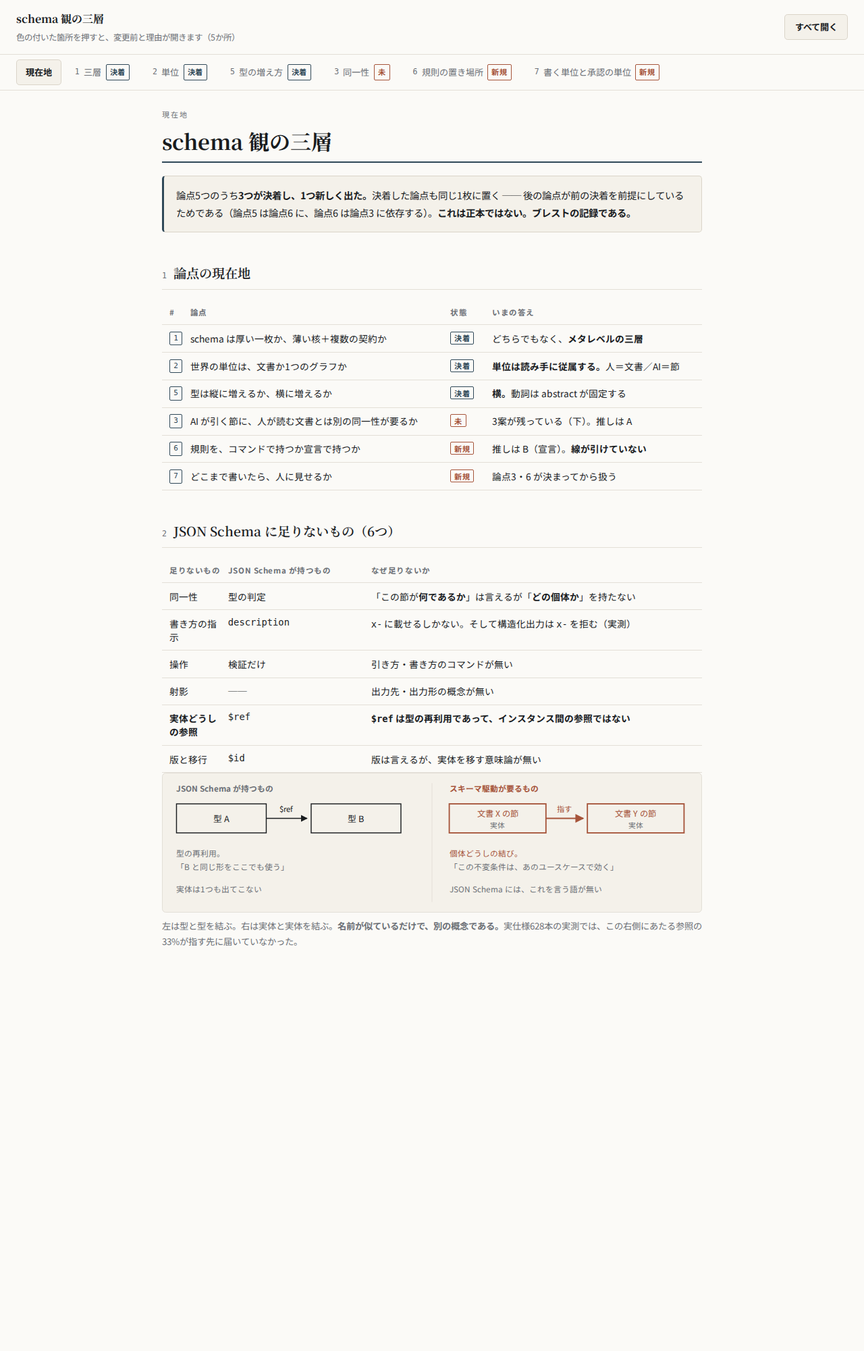
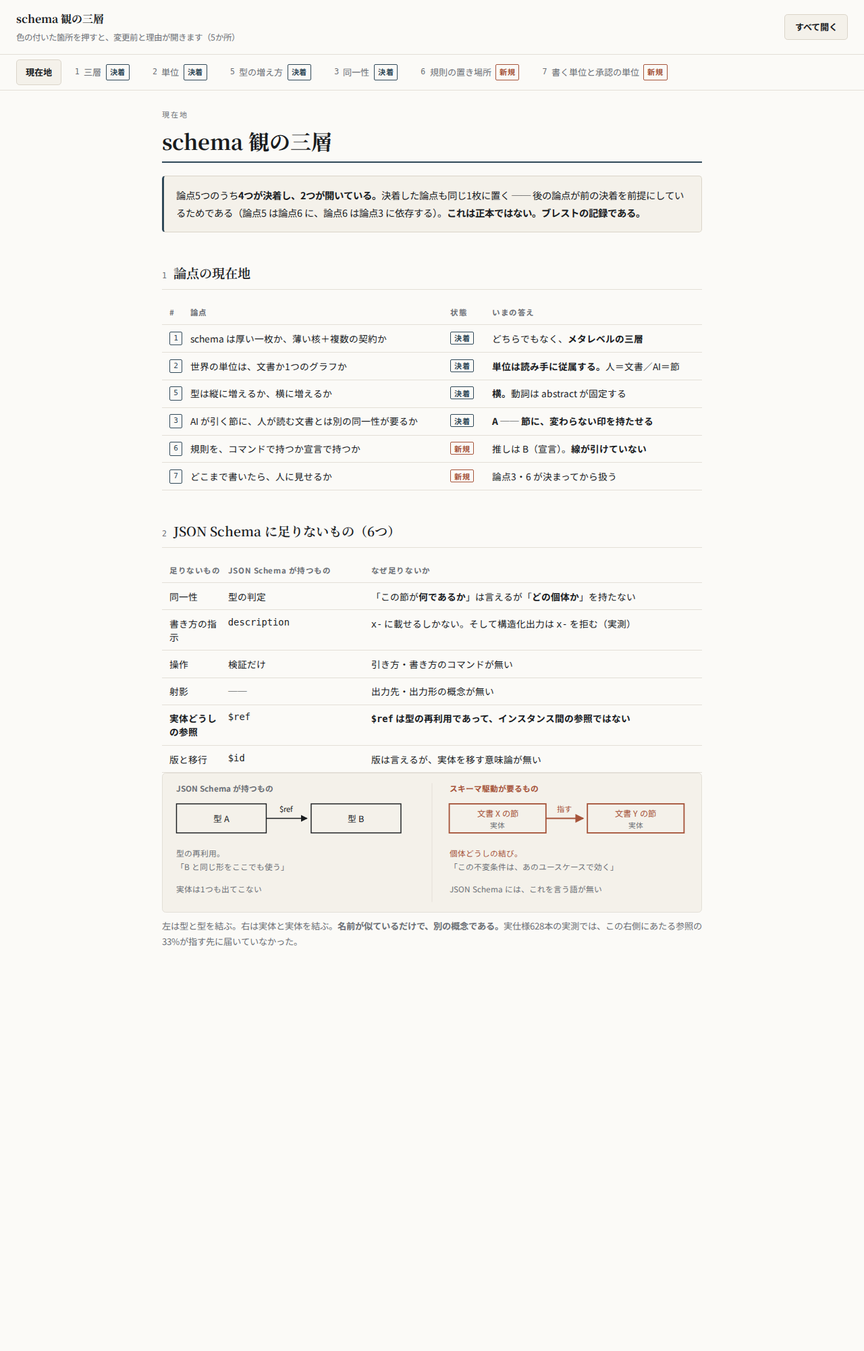
論点3を、節に不変の印を持たせる形で決める
決定：参照と突き合わせの鍵を、名前から印へ移す。
引き受けたのは3つ ── 人が読む射影では印を落とす／印を採番する道具を通さずには
節を書けなくする／印の重複と散逸は検査で見る。
案C（参照の側の解決状態）は排他ではなく、重ねて採れる。

Why: 参照が実体と実体を結ぶ以上、指される側は実体でなければならない。位置を
鍵にすると、参照の妥当性がいま最も動いているもの（構造そのもの）に依存する。
段2 に荷を置かない案は、これだけだった。

論点6 の前提も動いた ── 宣言が指せる先が、節の印になった。再開点は論点6。

Claude-Session: https://claude.ai/code/session_01VoPqHBXHr7Npdh9tNXyFNU

diff --git a/docs/adr/brainstorm-schema-conception-board.html b/docs/adr/brainstorm-schema-conception-board.html
@@ -98,7 +98,7 @@ mark.chg.del b{text-decoration:line-through}
 .st.done{color:var(--key);border-color:var(--key)}
 .st.open{color:var(--add);border-color:var(--add)}
 section[role="tabpanel"][hidden]{display:none}
-</style><div class="hd"><div class="t">schema 観の三層<small>色の付いた箇所を押すと、変更前と理由が開きます（<span id="n">0</span>か所）</small></div><button id="all" type="button">すべて開く</button></div><div class="tabs" role="tablist"><button role="tab" aria-selected="true" data-t="p0">現在地</button><button role="tab" aria-selected="false" data-t="p1"><span class="tn">1</span>三層<span class="st done">決着</span></button><button role="tab" aria-selected="false" data-t="p2"><span class="tn">2</span>単位<span class="st done">決着</span></button><button role="tab" aria-selected="false" data-t="p3"><span class="tn">5</span>型の増え方<span class="st done">決着</span></button><button role="tab" aria-selected="false" data-t="p4"><span class="tn">3</span>同一性<span class="st open">未</span></button><button role="tab" aria-selected="false" data-t="p5"><span class="tn">6</span>規則の置き場所<span class="st open">新規</span></button><button role="tab" aria-selected="false" data-t="p6"><span class="tn">7</span>書く単位と承認の単位<span class="st open">新規</span></button></div><main><section id="p0" role="tabpanel"><p class="eyebrow">現在地</p><h1>schema 観の三層</h1><div class="note">論点5つのうち<b>3つが決着し、1つ新しく出た。</b>決着した論点も同じ1枚に置く ── 後の論点が前の決着を前提にしているためである（論点5 は論点6 に、論点6 は論点3 に依存する）。<b>これは正本ではない。ブレストの記録である。</b></div><h2><span class="sn">1</span>論点の現在地</h2><div class="scroll"><table class=""><tr><th>#</th><th>論点</th><th>状態</th><th>いまの答え</th></tr><tr><td><span class="n">1</span></td><td>schema は厚い一枚か、薄い核＋複数の契約か</td><td><span class="st done">決着</span></td><td>どちらでもなく、<b>メタレベルの三層</b></td></tr><tr><td><span class="n">2</span></td><td>世界の単位は、文書か1つのグラフか</td><td><span class="st done">決着</span></td><td><b>単位は読み手に従属する。</b>人＝文書／AI＝節</td></tr><tr><td><span class="n">5</span></td><td>型は縦に増えるか、横に増えるか</td><td><span class="st done">決着</span></td><td><b>横。</b>動詞は abstract が固定する</td></tr><tr><td><span class="n">3</span></td><td>AI が引く節に、人が読む文書とは別の同一性が要るか</td><td><span class="st open">未</span></td><td>3案が残っている（下）。推しは A</td></tr><tr><td><span class="n">6</span></td><td>規則を、コマンドで持つか宣言で持つか</td><td><span class="st open">新規</span></td><td>推しは B（宣言）。<b>線が引けていない</b></td></tr><tr><td><span class="n">7</span></td><td>どこまで書いたら、人に見せるか</td><td><span class="st open">新規</span></td><td>論点3・6 が決まってから扱う</td></tr></table></div><h2><span class="sn">2</span>JSON Schema に足りないもの（6つ）</h2><div class="scroll"><table class=""><tr><th>足りないもの</th><th>JSON Schema が持つもの</th><th>なぜ足りないか</th></tr><tr><td>同一性</td><td>型の判定</td><td>「この節が<b>何であるか</b>」は言えるが「<b>どの個体か</b>」を持たない</td></tr><tr><td>書き方の指示</td><td><code>description</code></td><td><code>x-</code> に載せるしかない。そして構造化出力は <code>x-</code> を拒む（実測）</td></tr><tr><td>操作</td><td>検証だけ</td><td>引き方・書き方のコマンドが無い</td></tr><tr><td>射影</td><td>──</td><td>出力先・出力形の概念が無い</td></tr><tr><td><b>実体どうしの参照</b></td><td><code>$ref</code></td><td><b><code>$ref</code> は型の再利用であって、インスタンス間の参照ではない</b></td></tr><tr><td>版と移行</td><td><code>$id</code></td><td>版は言えるが、実体を移す意味論が無い</td></tr></table></div><figure><svg viewBox="0 0 780 200" role="img" aria-label="JSON Schema の $ref は型どうしを結ぶもので、文書エンティティどうしを結ぶ参照は別物である">
+</style><div class="hd"><div class="t">schema 観の三層<small>色の付いた箇所を押すと、変更前と理由が開きます（<span id="n">0</span>か所）</small></div><button id="all" type="button">すべて開く</button></div><div class="tabs" role="tablist"><button role="tab" aria-selected="true" data-t="p0">現在地</button><button role="tab" aria-selected="false" data-t="p1"><span class="tn">1</span>三層<span class="st done">決着</span></button><button role="tab" aria-selected="false" data-t="p2"><span class="tn">2</span>単位<span class="st done">決着</span></button><button role="tab" aria-selected="false" data-t="p3"><span class="tn">5</span>型の増え方<span class="st done">決着</span></button><button role="tab" aria-selected="false" data-t="p4"><span class="tn">3</span>同一性<span class="st done">決着</span></button><button role="tab" aria-selected="false" data-t="p5"><span class="tn">6</span>規則の置き場所<span class="st open">新規</span></button><button role="tab" aria-selected="false" data-t="p6"><span class="tn">7</span>書く単位と承認の単位<span class="st open">新規</span></button></div><main><section id="p0" role="tabpanel"><p class="eyebrow">現在地</p><h1>schema 観の三層</h1><div class="note">論点5つのうち<b>4つが決着し、2つが開いている。</b>決着した論点も同じ1枚に置く ── 後の論点が前の決着を前提にしているためである（論点5 は論点6 に、論点6 は論点3 に依存する）。<b>これは正本ではない。ブレストの記録である。</b></div><h2><span class="sn">1</span>論点の現在地</h2><div class="scroll"><table class=""><tr><th>#</th><th>論点</th><th>状態</th><th>いまの答え</th></tr><tr><td><span class="n">1</span></td><td>schema は厚い一枚か、薄い核＋複数の契約か</td><td><span class="st done">決着</span></td><td>どちらでもなく、<b>メタレベルの三層</b></td></tr><tr><td><span class="n">2</span></td><td>世界の単位は、文書か1つのグラフか</td><td><span class="st done">決着</span></td><td><b>単位は読み手に従属する。</b>人＝文書／AI＝節</td></tr><tr><td><span class="n">5</span></td><td>型は縦に増えるか、横に増えるか</td><td><span class="st done">決着</span></td><td><b>横。</b>動詞は abstract が固定する</td></tr><tr><td><span class="n">3</span></td><td>AI が引く節に、人が読む文書とは別の同一性が要るか</td><td><span class="st done">決着</span></td><td><b>A ── 節に、変わらない印を持たせる</b></td></tr><tr><td><span class="n">6</span></td><td>規則を、コマンドで持つか宣言で持つか</td><td><span class="st open">新規</span></td><td>推しは B（宣言）。<b>線が引けていない</b></td></tr><tr><td><span class="n">7</span></td><td>どこまで書いたら、人に見せるか</td><td><span class="st open">新規</span></td><td>論点3・6 が決まってから扱う</td></tr></table></div><h2><span class="sn">2</span>JSON Schema に足りないもの（6つ）</h2><div class="scroll"><table class=""><tr><th>足りないもの</th><th>JSON Schema が持つもの</th><th>なぜ足りないか</th></tr><tr><td>同一性</td><td>型の判定</td><td>「この節が<b>何であるか</b>」は言えるが「<b>どの個体か</b>」を持たない</td></tr><tr><td>書き方の指示</td><td><code>description</code></td><td><code>x-</code> に載せるしかない。そして構造化出力は <code>x-</code> を拒む（実測）</td></tr><tr><td>操作</td><td>検証だけ</td><td>引き方・書き方のコマンドが無い</td></tr><tr><td>射影</td><td>──</td><td>出力先・出力形の概念が無い</td></tr><tr><td><b>実体どうしの参照</b></td><td><code>$ref</code></td><td><b><code>$ref</code> は型の再利用であって、インスタンス間の参照ではない</b></td></tr><tr><td>版と移行</td><td><code>$id</code></td><td>版は言えるが、実体を移す意味論が無い</td></tr></table></div><figure><svg viewBox="0 0 780 200" role="img" aria-label="JSON Schema の $ref は型どうしを結ぶもので、文書エンティティどうしを結ぶ参照は別物である">
  <defs><marker id="r1b1" viewBox="0 0 10 10" refX="9" refY="5" markerWidth="7" markerHeight="7" orient="auto-start-reverse">
   <path d="M0 0 L10 5 L0 10 z" fill="currentColor"/></marker>
  <marker id="r1b2" viewBox="0 0 10 10" refX="9" refY="5" markerWidth="7" markerHeight="7" orient="auto-start-reverse">
@@ -352,7 +352,7 @@ section[role="tabpanel"][hidden]{display:none}
  <text x="685" y="156" text-anchor="middle" font-size="10.5" fill="var(--muted)">触っていない</text>
  <line x1="565" y1="144" x2="604" y2="144" stroke="var(--key)" stroke-width="1.6" marker-end="url(#r6e1)"/>
  <text x="415" y="192" font-size="11.5" fill="var(--key)">結びは残る。名前はただの表示になる</text>
-</svg><figcaption>名前を鍵にすると、<b>2方向に間違える</b>。名前を直しただけで「ずれた」と言われ（偽陽性）、中身を入れ替えても名前が同じなら気づかれない（偽陰性）。<b>名前を変えても同じものであり続けるなら、それはエンティティである</b>——というのは、Waffle が型にしている原則そのものである。</figcaption></figure><h2><span class="sn">2</span>反証を通過した案</h2><div class="scroll"><table class="opts"><tr><th></th><th>案</th><th>中身</th><th>代償</th></tr><tr><td><span class="n ">A</span></td><td><mark class="chg" tabindex="0" role="button" aria-expanded="false" data-b="同一性は名前か、変わらない印か（節と文書を区別せずに問うていた）" data-w="論点2 が「取得と参照は節単位」で決着したことで、指される側が節に定まった。名前と印の比較ではなく、節が文書とは別の同一性を持つかどうかが問いになった"><b>節に、変わらない印を持たせる</b></mark></td><td>機械が発番する印を鍵にする。人が読む射影では出さない</td><td><span class="cost">節を手で書き足せない。印の重複と散逸を検査する責務が増える。印は意味を運ばない</span></td></tr><tr><td><span class="n ">B</span></td><td><mark class="chg" tabindex="0" role="button" aria-expanded="false" data-b="改名を移行操作の宣言で運ぶ（独立の案として立てていた）" data-w="位置を鍵にする案と中身が同じだった。位置を鍵にする限り、位置が変わったことを別途宣言する以外に追跡手段が無い。2案ではなく、1案の必然の帰結である"><b>位置を同一性とし、動かすときは宣言する</b></mark></td><td>〈文書の識別子＋アドレス〉を鍵にし、改名・移動は移行の操作として書く</td><td><span class="cost">宣言の書き忘れが観測できない。忘れたこと自体が、不在として現れない</span></td></tr><tr><td><span class="n ">C</span></td><td><b>参照の側に、解決状態を持たせる</b></td><td>鍵は名前のまま。指す先へ届いたかを、参照が申告する</td><td><span class="cost">「移った」と「消えた」を区別できない。直し方は毎回、人が決める</span></td></tr></table></div><h2><span class="sn">3</span>この選択が、段1と段2に置くもの</h2><p class="lead">いま再定義しているのは<b>段2</b> である。</p><div class="scroll"><table class=""><tr><th></th><th>段1　全型が継ぐ契約</th><th>段2　8つの型</th></tr><tr><td><span class="n ">A</span></td><td>印を持つ／採番と不変／参照は印を指す／射影で落とす　<b>＝3つ増える</b></td><td><b>増えない。</b>既にある document への後付けの発番だけ</td></tr><tr><td><span class="n ">B</span></td><td>移行の操作を動詞として固定。<b>型が増えるほど太る</b></td><td>各型が位置の安定を守る。アドレスが動くと、指す参照が全部書き換わる</td></tr><tr><td><span class="n ">C</span></td><td>参照の語彙に、型と解決状態。<b>同一性は増えない</b></td><td>各型が、参照の欄で状態を申告する</td></tr></table></div><h2><span class="sn">4</span>落とした案と、その理由</h2><div class="scroll"><table class="out"><tr><th></th><th>案</th><th>落とした理由</th></tr><tr><td><span class="n out">×</span></td><td><mark class="chg del" tabindex="0" role="button" aria-expanded="false" data-b="この案は残っていた" data-w="中身を1文字直すと別物になる。エンティティの定義と衝突する"><b>中身のハッシュを鍵にする</b></mark></td><td>中身を1文字直すと別物になる。エンティティの定義と衝突する</td></tr><tr><td><span class="n out">×</span></td><td><mark class="chg del" tabindex="0" role="button" aria-expanded="false" data-b="この案は残っていた" data-w="指す側は後から現れる。後で発番すると、それより前の突き合わせが切れる"><b>外から指される節にだけ印を与える</b></mark></td><td>指す側は後から現れる。後で発番すると、それより前の突き合わせが切れる</td></tr><tr><td><span class="n out">×</span></td><td><mark class="chg del" tabindex="0" role="button" aria-expanded="false" data-b="この案は残っていた" data-w="人が読む単位に機械の鍵が現れる。しかも手書きの印は重複する"><b>人が手で印を書く</b></mark></td><td>人が読む単位に機械の鍵が現れる。しかも手書きの印は重複する</td></tr></table></div><h2><span class="sn">5</span>反証で分かったこと</h2><ul class='found'><li>問いが「要るか」から<b>「宣言で持つか、位置から導くか」</b>へ変わった</li><li>「要らない」に当たるのは <b>C だけ</b>である。A と B は持ち方の違いにすぎない</li><li><b>C は A と両立する。</b>排他なのは「指される側に同一性を置くか」だけで、「指す側が届いたかを申告するか」は別に決められる</li><li>JSON Schema に足りない6つのうち、<b>「同一性」と「実体どうしの参照」は同じ1つの穴の両側</b>である</li></ul><h2><span class="sn">6</span>私の推しと、その連鎖</h2><p class="lead">推す案は <b class="pickn">A</b> である。</p><div class="scroll"><table class="chain"><tr><th>段</th><th>中身</th></tr><tr><td><span class="st">測った</span></td><td>節を別の親へ移すと、名前を鍵にした差分は <code>removed 1 / added 1</code>、印を鍵にすると <code>moved 1</code>（原型での実測）</td></tr><tr><td><span class="st">測った</span></td><td>AI生成仕様 628本で、参照の <b>33%</b> が指す先に届いていない</td></tr><tr><td><span class="st">だから</span></td><td>参照が実体と実体を結ぶ以上、指される側は実体でなければならない</td></tr><tr><td><span class="st">一方で</span></td><td>位置を鍵にすると、参照の妥当性が構造の安定性に依存する ── いま最も動くのが構造である</td></tr><tr><td><span class="st">結論</span></td><td><b>A ── 節に、変わらない印を持たせる。</b>段2 に荷を置かない案は、これだけである</td></tr><tr><td><span class="st">引き受ける</span></td><td>人が読む射影で印を落とす。印を採番する道具を通さずには、節を書けなくする</td></tr><tr><td><span class="st">反証</span></td><td>印は意味を運ばない。人が印だけを見ても、それが何のことかは分からない</td></tr></table></div><h2><span class="sn">7</span>あなたの見解</h2><div class="you">✏　記号を選ぶ（どれでもなければ、そう言う）</div><h2><span class="sn">8</span>決まり</h2><div class="next">選ばれた案が合意になり、次の論点へ</div></section><section id="p5" role="tabpanel" hidden><p class="eyebrow">論点 6</p><h1>規則を、コマンドで持つか宣言で持つか</h1><div class="note">abstract schema がクエリとコマンドを固定すると、<b>concrete 固有の規則の行き場が問題になる</b>。論点2 の代償（文書をまたぐ規則の置き場所が無くなる）が、ここへ落ちてくる。</div><h2><span class="sn">1</span>案の違いを、図で</h2><figure><svg viewBox="0 0 780 260" role="img" aria-label="concrete schema が1つ増えたとき、案Aでは abstract のコマンドが増え、案Bでは concrete の中に規則が増えるだけで abstract は変わらない"><defs><marker id="r2c1" viewBox="0 0 10 10" refX="9" refY="5" markerWidth="7" markerHeight="7" orient="auto-start-reverse"><path d="M0 0 L10 5 L0 10 z" fill="currentColor"/></marker></defs><defs><marker id="r2c2" viewBox="0 0 10 10" refX="9" refY="5" markerWidth="7" markerHeight="7" orient="auto-start-reverse"><path d="M0 0 L10 5 L0 10 z" fill="var(--add)"/></marker></defs>
+</svg><figcaption>名前を鍵にすると、<b>2方向に間違える</b>。名前を直しただけで「ずれた」と言われ（偽陽性）、中身を入れ替えても名前が同じなら気づかれない（偽陰性）。<b>名前を変えても同じものであり続けるなら、それはエンティティである</b>——というのは、Waffle が型にしている原則そのものである。</figcaption></figure><h2><span class="sn">2</span>反証を通過した案</h2><div class="scroll"><table class="opts"><tr><th></th><th>案</th><th>中身</th><th>代償</th></tr><tr><td><span class="n ">A</span></td><td><mark class="chg" tabindex="0" role="button" aria-expanded="false" data-b="同一性は名前か、変わらない印か（節と文書を区別せずに問うていた）" data-w="論点2 が「取得と参照は節単位」で決着したことで、指される側が節に定まった。名前と印の比較ではなく、節が文書とは別の同一性を持つかどうかが問いになった"><b>節に、変わらない印を持たせる</b></mark></td><td>機械が発番する印を鍵にする。人が読む射影では出さない</td><td><span class="cost">節を手で書き足せない。印の重複と散逸を検査する責務が増える。印は意味を運ばない</span></td></tr><tr><td><span class="n ">B</span></td><td><mark class="chg" tabindex="0" role="button" aria-expanded="false" data-b="改名を移行操作の宣言で運ぶ（独立の案として立てていた）" data-w="位置を鍵にする案と中身が同じだった。位置を鍵にする限り、位置が変わったことを別途宣言する以外に追跡手段が無い。2案ではなく、1案の必然の帰結である"><b>位置を同一性とし、動かすときは宣言する</b></mark></td><td>〈文書の識別子＋アドレス〉を鍵にし、改名・移動は移行の操作として書く</td><td><span class="cost">宣言の書き忘れが観測できない。忘れたこと自体が、不在として現れない</span></td></tr><tr><td><span class="n ">C</span></td><td><b>参照の側に、解決状態を持たせる</b></td><td>鍵は名前のまま。指す先へ届いたかを、参照が申告する</td><td><span class="cost">「移った」と「消えた」を区別できない。直し方は毎回、人が決める</span></td></tr></table></div><h2><span class="sn">3</span>この選択が、段1と段2に置くもの</h2><p class="lead">いま再定義しているのは<b>段2</b> である。</p><div class="scroll"><table class=""><tr><th></th><th>段1　全型が継ぐ契約</th><th>段2　8つの型</th></tr><tr><td><span class="n ">A</span></td><td>印を持つ／採番と不変／参照は印を指す／射影で落とす　<b>＝3つ増える</b></td><td><b>増えない。</b>既にある document への後付けの発番だけ</td></tr><tr><td><span class="n ">B</span></td><td>移行の操作を動詞として固定。<b>型が増えるほど太る</b></td><td>各型が位置の安定を守る。アドレスが動くと、指す参照が全部書き換わる</td></tr><tr><td><span class="n ">C</span></td><td>参照の語彙に、型と解決状態。<b>同一性は増えない</b></td><td>各型が、参照の欄で状態を申告する</td></tr></table></div><h2><span class="sn">4</span>落とした案と、その理由</h2><div class="scroll"><table class="out"><tr><th></th><th>案</th><th>落とした理由</th></tr><tr><td><span class="n out">×</span></td><td><mark class="chg del" tabindex="0" role="button" aria-expanded="false" data-b="この案は残っていた" data-w="中身を1文字直すと別物になる。エンティティの定義と衝突する"><b>中身のハッシュを鍵にする</b></mark></td><td>中身を1文字直すと別物になる。エンティティの定義と衝突する</td></tr><tr><td><span class="n out">×</span></td><td><mark class="chg del" tabindex="0" role="button" aria-expanded="false" data-b="この案は残っていた" data-w="指す側は後から現れる。後で発番すると、それより前の突き合わせが切れる"><b>外から指される節にだけ印を与える</b></mark></td><td>指す側は後から現れる。後で発番すると、それより前の突き合わせが切れる</td></tr><tr><td><span class="n out">×</span></td><td><mark class="chg del" tabindex="0" role="button" aria-expanded="false" data-b="この案は残っていた" data-w="人が読む単位に機械の鍵が現れる。しかも手書きの印は重複する"><b>人が手で印を書く</b></mark></td><td>人が読む単位に機械の鍵が現れる。しかも手書きの印は重複する</td></tr></table></div><h2><span class="sn">5</span>反証で分かったこと</h2><ul class='found'><li>問いが「要るか」から<b>「宣言で持つか、位置から導くか」</b>へ変わった</li><li>「要らない」に当たるのは <b>C だけ</b>である。A と B は持ち方の違いにすぎない</li><li><b>C は A と両立する。</b>排他なのは「指される側に同一性を置くか」だけで、「指す側が届いたかを申告するか」は別に決められる</li><li>JSON Schema に足りない6つのうち、<b>「同一性」と「実体どうしの参照」は同じ1つの穴の両側</b>である</li></ul><h2><span class="sn">6</span>私の推しと、その連鎖</h2><p class="lead">推す案は <b class="pickn">A</b> である。</p><div class="scroll"><table class="chain"><tr><th>段</th><th>中身</th></tr><tr><td><span class="st">測った</span></td><td>節を別の親へ移すと、名前を鍵にした差分は <code>removed 1 / added 1</code>、印を鍵にすると <code>moved 1</code>（原型での実測）</td></tr><tr><td><span class="st">測った</span></td><td>AI生成仕様 628本で、参照の <b>33%</b> が指す先に届いていない</td></tr><tr><td><span class="st">だから</span></td><td>参照が実体と実体を結ぶ以上、指される側は実体でなければならない</td></tr><tr><td><span class="st">一方で</span></td><td>位置を鍵にすると、参照の妥当性が構造の安定性に依存する ── いま最も動くのが構造である</td></tr><tr><td><span class="st">結論</span></td><td><b>A ── 節に、変わらない印を持たせる。</b>段2 に荷を置かない案は、これだけである</td></tr><tr><td><span class="st">引き受ける</span></td><td>人が読む射影で印を落とす。印を採番する道具を通さずには、節を書けなくする</td></tr><tr><td><span class="st">反証</span></td><td>印は意味を運ばない。人が印だけを見ても、それが何のことかは分からない</td></tr></table></div><h2><span class="sn">7</span>決まり</h2><div class="scroll"><table class="chain"><tr><th></th><th></th></tr><tr><td><span class="st done">決定</span></td><td><b>節に、変わらない印を持たせる。</b>参照と突き合わせの鍵を、名前から印へ移す</td></tr><tr><td><span class="st done">理由</span></td><td>参照が実体と実体を結ぶ以上、指される側は実体でなければならない。位置を鍵にすると、参照の妥当性がいま最も動いているもの（構造そのもの）に依存する</td></tr><tr><td><span class="st done">引き受ける</span></td><td>人が読む射影では印を落とす。印を採番する道具を通さずには、節を書けなくする。印の重複と散逸は、検査で見る</td></tr><tr><td><span class="st done">重ねて採れる</span></td><td>案C（参照の側の解決状態）は排他ではない。指す側が届いたかを申告するかは、別に決められる</td></tr><tr><td><span class="st done">次</span></td><td>論点6 へ進む。<b>印が決まったことで、宣言が指せる先が実体になった</b></td></tr></table></div></section><section id="p5" role="tabpanel" hidden><p class="eyebrow">論点 6</p><h1>規則を、コマンドで持つか宣言で持つか</h1><div class="note">abstract schema がクエリとコマンドを固定すると、<b>concrete 固有の規則の行き場が問題になる</b>。論点2 の代償（文書をまたぐ規則の置き場所が無くなる）が、ここへ落ちてくる。<b>論点3 が A で決まったので、規則が指せる先は節の印になった</b> ── 「どの個体について言うか」は、もう書ける。</div><h2><span class="sn">1</span>案の違いを、図で</h2><figure><svg viewBox="0 0 780 260" role="img" aria-label="concrete schema が1つ増えたとき、案Aでは abstract のコマンドが増え、案Bでは concrete の中に規則が増えるだけで abstract は変わらない"><defs><marker id="r2c1" viewBox="0 0 10 10" refX="9" refY="5" markerWidth="7" markerHeight="7" orient="auto-start-reverse"><path d="M0 0 L10 5 L0 10 z" fill="currentColor"/></marker></defs><defs><marker id="r2c2" viewBox="0 0 10 10" refX="9" refY="5" markerWidth="7" markerHeight="7" orient="auto-start-reverse"><path d="M0 0 L10 5 L0 10 z" fill="var(--add)"/></marker></defs>
  <text x="20" y="24" font-size="12" font-weight="700" fill="var(--del)">案A　規則をコマンドで持つ</text>
  <rect x="20" y="38" width="330" height="46" fill="none" stroke="currentColor" stroke-width="1.4"/>
  <text x="185" y="58" text-anchor="middle" font-size="12" fill="currentColor">abstract schema</text>
@@ -387,7 +387,7 @@ section[role="tabpanel"][hidden]{display:none}
  <text x="713" y="122" font-size="11" fill="var(--muted)">従うだけ</text>
  <text x="415" y="222" font-size="11.5" fill="var(--key)">abstract は変わらない。</text>
  <text x="415" y="242" font-size="11.5" fill="var(--muted)">ただし「何が違反か」を書く語彙が要る</text>
-</svg><figcaption>差は矢印1本である。<b>案Aでは新しい型が abstract へ動詞を足しに行き、案Bでは従うだけで済む。</b>案Bを採るなら、abstract schema は操作だけでなく「何が違反かを書くための語彙」も持たなければ閉じない。</figcaption></figure><h2><span class="sn">2</span>反証を通過した案</h2><div class="scroll"><table class="opts"><tr><th></th><th>案</th><th>中身</th><th>代償</th></tr><tr><td><span class="n ">A</span></td><td><b>規則をコマンドで持つ</b></td><td>新しい型は、abstract schema へ動詞を足しに行く</td><td><span class="cost">型が増えるたび abstract が太り、固定した意味が薄れる。論点5の決着（横に増える）も崩れる</span></td></tr><tr><td><span class="n ">B</span></td><td><b>規則を宣言で持つ</b></td><td>concrete schema が規則を宣言し、abstract はそれに従う</td><td><span class="cost">abstract に「何が違反かを書く語彙」が要る。そして<b>宣言で書けない規則は書けない</b></span></td></tr></table></div><h2><span class="sn">3</span>反証で分かったこと</h2><ul class='found'><li><b>この論点の実体は、線をどこに引くかである</b> ── 宣言で書ける規則と、走査・構文解析・依存グラフの循環検出のような<b>能力を要する検査</b>の境界</li><li>論点3 が A（節に印）に決まると、宣言が指せる先が実体になる。<b>論点3 の決着が、この線の引き方を変える</b></li></ul><h2><span class="sn">4</span>私の推しと、その連鎖</h2><p class="lead">推す案は <b class="pickn">B</b> である。</p><div class="scroll"><table class="chain"><tr><th>段</th><th>中身</th></tr><tr><td><span class="st">だから</span></td><td>案Aでは新しい型が abstract へ動詞を足しに行き、案Bでは従うだけで済む。差は矢印1本である</td></tr><tr><td><span class="st">結論</span></td><td><b>B ── 規則を宣言で持つ。</b>abstract は操作だけでなく「何が違反かを書く語彙」も持つ</td></tr><tr><td><span class="st">引き受ける</span></td><td>宣言で書けない規則は書けない。能力を要する検査は、宣言に収まらない</td></tr><tr><td><span class="st">確かめていない</span></td><td>その線がどこに引かれるかは、まだ 測っていない ── 論点3 が決まってから引く</td></tr></table></div><h2><span class="sn">5</span>あなたの見解</h2><div class="you">✏　記号を選ぶ（どれでもなければ、そう言う）</div><h2><span class="sn">6</span>決まり</h2><div class="next">選ばれた案が合意になり、次の論点へ</div></section><section id="p6" role="tabpanel" hidden><p class="eyebrow">論点 7</p><h1>どこまで書いたら、人に見せるか</h1><div class="note">論点2 の決着から落ちてきた問いである。<b>AI は読み手であると同時に書き手でもある。</b></div><h2><span class="sn">1</span>ずれの中身</h2><div class="scroll"><table class=""><tr><th></th><th>単位</th><th>なぜ</th></tr><tr><td>書く</td><td><b>節</b></td><td>AI が欄を埋める</td></tr><tr><td>承認する</td><td><b>文書</b></td><td>人が1本として読む</td></tr></table></div><p class='lead'>「どこまで書いたら人に見せるか」は、節が何個埋まったかでは決まらず、<b>文書が閉じたときに決まる</b>。このずれが、Human On The Loop の境界そのものである。</p><h2><span class="sn">2</span>あなたの見解</h2><div class="you">✏　記号を選ぶ（どれでもなければ、そう言う）</div><h2><span class="sn">3</span>決まり</h2><div class="next">選ばれた案が合意になり、次の論点へ</div></section></main>
+</svg><figcaption>差は矢印1本である。<b>案Aでは新しい型が abstract へ動詞を足しに行き、案Bでは従うだけで済む。</b>案Bを採るなら、abstract schema は操作だけでなく「何が違反かを書くための語彙」も持たなければ閉じない。</figcaption></figure><h2><span class="sn">2</span>反証を通過した案</h2><div class="scroll"><table class="opts"><tr><th></th><th>案</th><th>中身</th><th>代償</th></tr><tr><td><span class="n ">A</span></td><td><b>規則をコマンドで持つ</b></td><td>新しい型は、abstract schema へ動詞を足しに行く</td><td><span class="cost">型が増えるたび abstract が太り、固定した意味が薄れる。論点5の決着（横に増える）も崩れる</span></td></tr><tr><td><span class="n ">B</span></td><td><b>規則を宣言で持つ</b></td><td>concrete schema が規則を宣言し、abstract はそれに従う</td><td><span class="cost">abstract に「何が違反かを書く語彙」が要る。そして<b>宣言で書けない規則は書けない</b></span></td></tr></table></div><h2><span class="sn">3</span>反証で分かったこと</h2><ul class='found'><li><b>論点3 の決着で、宣言が指す先が定まった。</b>残っているのは、指した先について<b>何を言えるか</b>である</li><li><b>この論点の実体は、線をどこに引くかである</b> ── 宣言で書ける規則と、走査・構文解析・依存グラフの循環検出のような<b>能力を要する検査</b>の境界</li><li>論点3 が A（節に印）に決まると、宣言が指せる先が実体になる。<b>論点3 の決着が、この線の引き方を変える</b></li></ul><h2><span class="sn">4</span>私の推しと、その連鎖</h2><p class="lead">推す案は <b class="pickn">B</b> である。</p><div class="scroll"><table class="chain"><tr><th>段</th><th>中身</th></tr><tr><td><span class="st">だから</span></td><td>案Aでは新しい型が abstract へ動詞を足しに行き、案Bでは従うだけで済む。差は矢印1本である</td></tr><tr><td><span class="st">結論</span></td><td><b>B ── 規則を宣言で持つ。</b>abstract は操作だけでなく「何が違反かを書く語彙」も持つ</td></tr><tr><td><span class="st">引き受ける</span></td><td>宣言で書けない規則は書けない。能力を要する検査は、宣言に収まらない</td></tr><tr><td><span class="st">確かめていない</span></td><td>その線がどこに引かれるかは、まだ 測っていない ── 論点3 が決まってから引く</td></tr></table></div><h2><span class="sn">5</span>あなたの見解</h2><div class="you">✏　記号を選ぶ（どれでもなければ、そう言う）</div><h2><span class="sn">6</span>決まり</h2><div class="next">選ばれた案が合意になり、次の論点へ</div></section><section id="p6" role="tabpanel" hidden><p class="eyebrow">論点 7</p><h1>どこまで書いたら、人に見せるか</h1><div class="note">論点2 の決着から落ちてきた問いである。<b>AI は読み手であると同時に書き手でもある。</b></div><h2><span class="sn">1</span>ずれの中身</h2><div class="scroll"><table class=""><tr><th></th><th>単位</th><th>なぜ</th></tr><tr><td>書く</td><td><b>節</b></td><td>AI が欄を埋める</td></tr><tr><td>承認する</td><td><b>文書</b></td><td>人が1本として読む</td></tr></table></div><p class='lead'>「どこまで書いたら人に見せるか」は、節が何個埋まったかでは決まらず、<b>文書が閉じたときに決まる</b>。このずれが、Human On The Loop の境界そのものである。</p><h2><span class="sn">2</span>あなたの見解</h2><div class="you">✏　記号を選ぶ（どれでもなければ、そう言う）</div><h2><span class="sn">3</span>決まり</h2><div class="next">選ばれた案が合意になり、次の論点へ</div></section></main>
 <script>
 (function(){
   const marks = [...document.querySelectorAll('mark.chg')];

diff --git a/.waffle/memory/project_schema_conception_reader_dependent_units.md b/.waffle/memory/project_schema_conception_reader_dependent_units.md
@@ -29,8 +29,8 @@ schema が何を担うものかについて、2026-09-04〜05 のブレストで
 
 ## C. まだ論点
 
-- **論点3（同一性）**——論点2の決着で問いが変わった。「名前か印か」ではなく、**「AI が引く節に、人が読む文書とは別の同一性が要るか」**。文書には同一性がある（パス・ID）。節にも要るのかが問い
-- **論点6（規則の置き場所）**——`abstract schema` がクエリとコマンドを固定すると、`concrete` 固有の規則の行き場が問題になる。コマンドとして足せば型が増えるたび `abstract` が太り、宣言として持てば `abstract` に「何が違反かを書く語彙」が要る。**宣言で書ける規則と、走査・構文解析・循環検出のような能力を要する検査の線をどこに引くかが、この論点の実体**
+- ~~論点3（同一性）~~——**2026-09-05 に決着。節に、変わらない印を持たせる**（案A）。参照と突き合わせの鍵を、名前から印へ移す。理由は、参照が実体と実体を結ぶ以上、指される側は実体でなければならず、位置を鍵にすると参照の妥当性がいま最も動いているもの（構造そのもの）に依存するため。**引き受けたのは3つ**——人が読む射影では印を落とす／印を採番する道具を通さずには節を書けなくする／印の重複と散逸は検査で見る。**案C（参照の側の解決状態）は排他ではなく、重ねて採れる**
+- **論点6（規則の置き場所）＝いまの再開点**——`abstract schema` がクエリとコマンドを固定すると、`concrete` 固有の規則の行き場が問題になる。コマンドとして足せば型が増えるたび `abstract` が太り、宣言として持てば `abstract` に「何が違反かを書く語彙」が要る。**宣言で書ける規則と、走査・構文解析・循環検出のような能力を要する検査の線をどこに引くかが、この論点の実体**
 - **書く単位と承認する単位のずれ**——AI は読み手であると同時に書き手である。書く単位は節（欄を埋める）、承認する単位は文書（人が1本として読む）。「どこまで書いたら人に見せるか」は節の数では決まらず、文書が閉じたときに決まる。**このずれが Human On The Loop の境界そのもの**
 
 ## D. 私の提案（未採用・要判断）
@@ -50,4 +50,6 @@ schema が何を担うものかについて、2026-09-04〜05 のブレストで
 
 **Why:** 卒業制作（`spec-correspondence`）の主張を実装できる形まで詰める過程で作った原型（仮称 `Kata`）が Waffle の思想と同じであることに気づき、「schema をどう捉えているか」の比較へ移った結果、段1（全型共通の契約）と段2（8つの型）の再定義にそのまま渡せる三層が出た。Waffle の外（`spec-correspondence` リポジトリ）で作業したため、この記録を移すまで Waffle 側には1バイトも書いていない。
 
-**How to apply:** 段1・段2 の再定義では、まず A の原理を前提として置く——とくに「段1 の存在理由は共通部分のくくり出しではなく、同じ原理をもう1段上に当てること」を、段1 に何を置くかの判定に使う。B の実測は問題が実在することの証拠としてのみ引き、あるべき形の根拠には使わない。再開点は C の論点3（AI が引く節に、人が読む文書とは別の同一性が要るか）で、論点6 はその後、書く単位と承認する単位のずれは両方が決まってから扱う。ブレストの記録は `docs/brainstorm/brainstorm-schema-conception-three-tiers.md` と `docs/adr/brainstorm-schema-conception.html`（図7枚・見解の変更履歴つき）にある。
+**再開点（2026-09-05）:** 論点6（規則を、コマンドで持つか宣言で持つか）。盤面は `docs/adr/brainstorm-schema-conception-board.html`（タブで論点ごとに切り替わる。Artifact: `https://claude.ai/code/artifact/b85a142f-d6b5-4964-844c-0f7c64383882`）。**論点3 が決まったことで、宣言が指せる先は節の印になった**——残っているのは、指した先について何を言えるかである。
+
+**How to apply:** 段1・段2 の再定義では、まず A の原理を前提として置く——とくに「段1 の存在理由は共通部分のくくり出しではなく、同じ原理をもう1段上に当てること」を、段1 に何を置くかの判定に使う。B の実測は問題が実在することの証拠としてのみ引き、あるべき形の根拠には使わない。再開点は論点6（規則の置き場所）で、書く単位と承認する単位のずれはその後に扱う。ブレストの記録は `docs/brainstorm/brainstorm-schema-conception-three-tiers.md` と `docs/adr/brainstorm-schema-conception.html`（図7枚・見解の変更履歴つき）にある。

diff --git a/.waffle/memory/MEMORY.md b/.waffle/memory/MEMORY.md
@@ -22,7 +22,7 @@
 
 - [いまの現在地：Waffle 自身の knowledge を立てる段](project_waffle_own_knowledge_stage.md) — **ここから再開する。**「段1・段2 でやること」の節に、未決・未承認・順番を1か所へ集約（2026-08-29）
 
-- [schema観の三層と、単位は読み手に従属すること(2026-09-05)](project_schema_conception_reader_dependent_units.md) — abstract/concrete/文書エンティティのメタ三層。人＝文書単位／AI＝節単位。**再開点は論点3（節に別の同一性が要るか）**
+- [schema観の三層と、単位は読み手に従属すること(2026-09-05)](project_schema_conception_reader_dependent_units.md) — abstract/concrete/文書エンティティのメタ三層。人＝文書単位／AI＝節単位。論点3は**節に不変の印を持たせる**で決着（2026-09-05）。**再開点は論点6（規則の置き場所）**
 - [仕様と実装の抽象境界の結論(2026-08-09)](project_ddd_abstraction_boundary_conclusions.md) — この作業の前回の到達点。原則／Waffleの設計判断／未採用の提案／取り下げの四分割
 - [抽象は情報の削減ではない](feedback_abstraction_is_not_reduction.md) — 要素は残し、共通概念で束ねる。具体を復元するのに要る特徴を落とさない
 - [knowledgeが空けている場所を先に見つける](feedback_find_the_gap_knowledge_left_open.md) — 既にある部分を決め直さない。留保事項は「どこが決定に開かれているか」の目印
